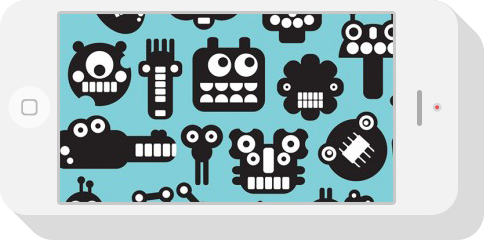
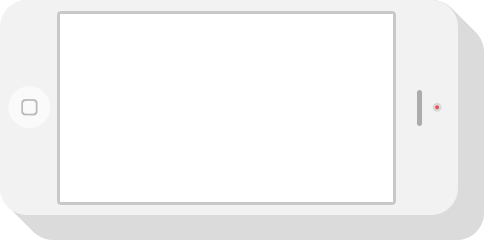
feat: implement screen on/off feature

diff --git a/script.js b/script.js
@@ -3,6 +3,8 @@ const menu = document.getElementById("menu");
 const slider = document.getElementById("slider");
 const arrow_left = document.getElementById("arrow-left");
 const arrow_right = document.getElementById("arrow-right");
+const vertical_phone = document.getElementsByClassName("slider__image_vertical")[0];
+const horizontal_phone = document.getElementsByClassName("slider__image_horizontal")[0];
 //---------------------------------------------------
 const tag_menu = document.getElementById("tag-menu");
 const portfolio = document.getElementById("portfolio-items");
@@ -92,6 +94,17 @@ arrow_right.addEventListener('click', (event) => {
         slider.classList.remove('slider_blue');
     }
 });
+vertical_phone.addEventListener('click', event => {
+    const screen = vertical_phone.getElementsByClassName("vertical_screen")[0];
+    screen.classList.contains("hidden") ? screen.classList.remove("hidden") : screen.classList.add("hidden");
+    console.log(screen);
+});
+horizontal_phone.addEventListener('click', event => {
+    const screen = horizontal_phone.getElementsByClassName("horizontal_screen")[0];
+    screen.classList.contains("hidden") ? screen.classList.remove("hidden") : screen.classList.add("hidden");
+    console.log(screen);
+});
+
 // Form 
 quote_form.addEventListener('submit', event => {
     event.preventDefault();

diff --git a/style.css b/style.css
@@ -237,18 +237,48 @@ body {
     -webkit-mask:  url(./assets/chev.png) no-repeat 25% 50%;
     mask: url(./assets/chev.png) no-repeat 25% 50%;
 }
-
-    
-
 .slider__image_vertical {
     position: absolute;
     left: 82px;
     top: -1px;
+    padding: 65px 53px 84px 14px;
+    background-image: url(./assets/iPhoneVertical.png);
+    background-repeat: no-repeat;
+    cursor: pointer;
 }
 .slider__image_horizontal {
     position: absolute;
     top: 120px;
-    right: 80px;
+    right: 34px;
+    padding: 14px 138px 40px 60px;
+    background-image: url(./assets/iPhoneHorizontal.png);
+    background-repeat: no-repeat;
+    cursor: pointer;
+}
+.slider__image_vertical:hover,
+.slider__image_horizontal:hover {
+    transform: scale(.99);
+    transition: all .1s;
+}
+.vertical_screen {
+    position: absolute;
+    z-index: 2;
+}
+.vertical_screen_off {
+    width: 188px;
+    height: 333px;
+    background-color: black;
+    z-index: 1;
+}
+.horizontal_screen {
+    position: absolute;
+    z-index: 2;
+}
+.horizontal_screen_off {
+    width: 333px;
+    height: 188px;
+    background-color: black;
+    z-index: 1;
 }
 /**/
 

diff --git a/index.html b/index.html
@@ -35,8 +35,14 @@
 
             <div class="slider__container">
                 <div class="slider__image slider__image_1">
-                    <img class="slider__image_vertical" src="./assets/iPhoneVertical.png" alt="iPhone Vertical">
-                    <img class="slider__image_horizontal" src="./assets/iPhoneHorizontal.png" alt="iPhone Horizontal">
+                    <div class="slider__image_vertical">
+                        <img class="vertical_screen" src="./assets/iPhoneVerticalScreen.png" alt="iPhone Vertical Screen">
+                        <div class="vertical_screen_off"></div>
+                    </div>
+                    <div class="slider__image_horizontal">
+                        <img class="horizontal_screen" src="./assets/iPhoneHorizontalScreen.png" alt="iPhone Horizontal Screen">
+                        <div class="horizontal_screen_off"></div>
+                    </div>
                 </div>
                 <div class="slider__image slider__image_2 hidden">
                     <img class=" " src="./assets/slider2.png" alt="slider 2">
